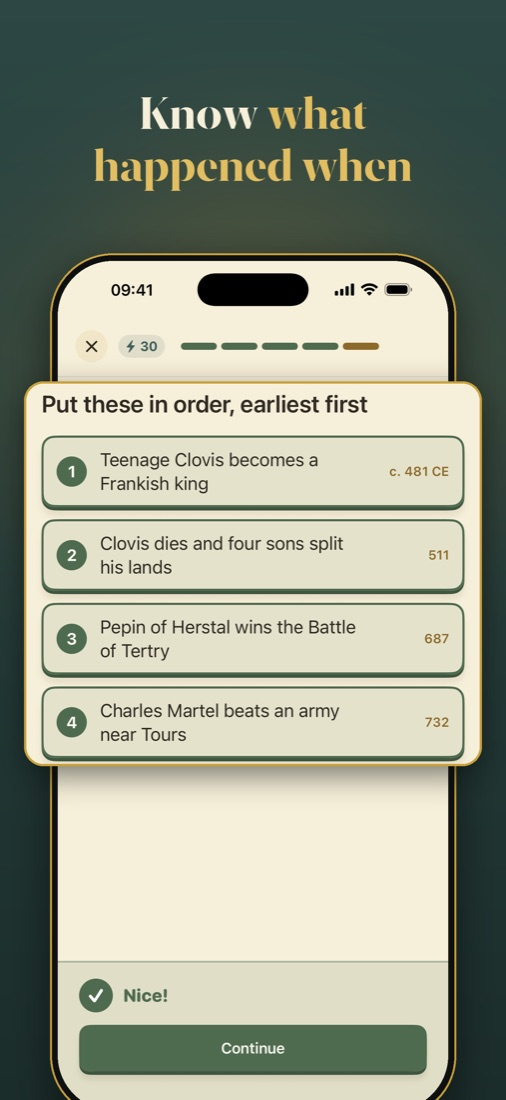
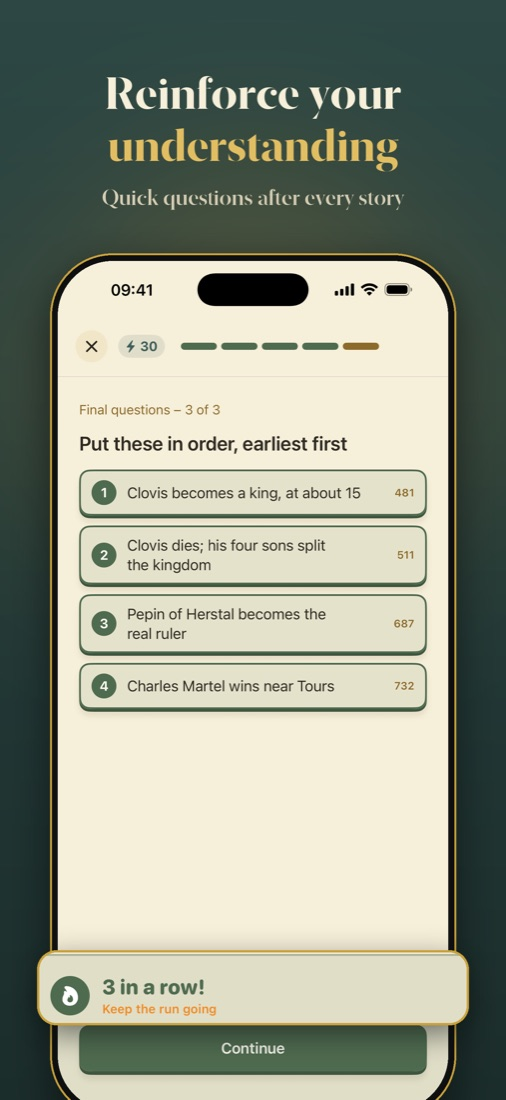
Noble landing page: sell finally understanding all of history; questions image reinforces understanding with the 3-in-a-row praise

Changed region(s): [[0.0296, 0.34, 0.9783, 0.7418], [0.0593, 0.8345, 0.9486, 0.9582], [0.1779, 0.0618, 0.83, 0.1855]]

diff --git a/Noble/index.html b/Noble/index.html
@@ -4,11 +4,11 @@
 <meta charset="utf-8">
 <meta name="viewport" content="width=device-width, initial-scale=1, viewport-fit=cover">
 <title>Noble: Learn World History</title>
-<meta name="description" content="World history in five-minute illustrated stories. Read them or listen, then lock it in with a few quick questions. Free on iPhone.">
+<meta name="description" content="Finally understand all of world history, from the first cities to the fall of the Berlin Wall, in five-minute illustrated stories. Free on iPhone.">
 <meta name="theme-color" content="#2C4744">
 <meta name="apple-itunes-app" content="app-id=6768127748">
 <meta property="og:title" content="Noble: Learn World History">
-<meta property="og:description" content="Screen time, well spent. Five-minute illustrated history stories with a narrator. Free on iPhone.">
+<meta property="og:description" content="Screen time, well spent. Finally understand all of world history, five minutes at a time. Free on iPhone.">
 <meta property="og:image" content="https://bogdan-perl.github.io/Noble/img/og.jpg">
 <meta property="og:url" content="https://bogdan-perl.github.io/Noble/">
 <link rel="icon" href="img/icon.png">
@@ -56,7 +56,7 @@
 <div class="top">
   <div class="brand"><img src="img/icon.png" alt="" width="40" height="40">Noble: Learn World History</div>
   <h1>Screen time,<br><em>well spent.</em></h1>
-  <p class="lede">World history in five-minute illustrated stories. Read or listen, then lock it in with a few quick questions.</p>
+  <p class="lede">Finally understand how all of world history fits together, from the first cities to the fall of the Berlin Wall, one five-minute story at a time.</p>
   <a class="badge store-link" href="https://apps.apple.com/app/id6768127748">
     <img src="https://tools.applemediaservices.com/api/badges/download-on-the-app-store/black/en-us?size=250x83" alt="Download on the App Store">
   </a>
@@ -66,7 +66,7 @@
 <div class="shots" aria-label="App screenshots">
   <img src="img/01-timeline.jpg" alt="The timeline of lessons in Noble">
   <img src="img/02-lesson.jpg" alt="A painted lesson page">
-  <img src="img/03-questions.jpg" alt="Putting events from the lesson in order">
+  <img src="img/03-questions.jpg" alt="Quick questions that reinforce what you learned">
 </div>
 
 <footer>
